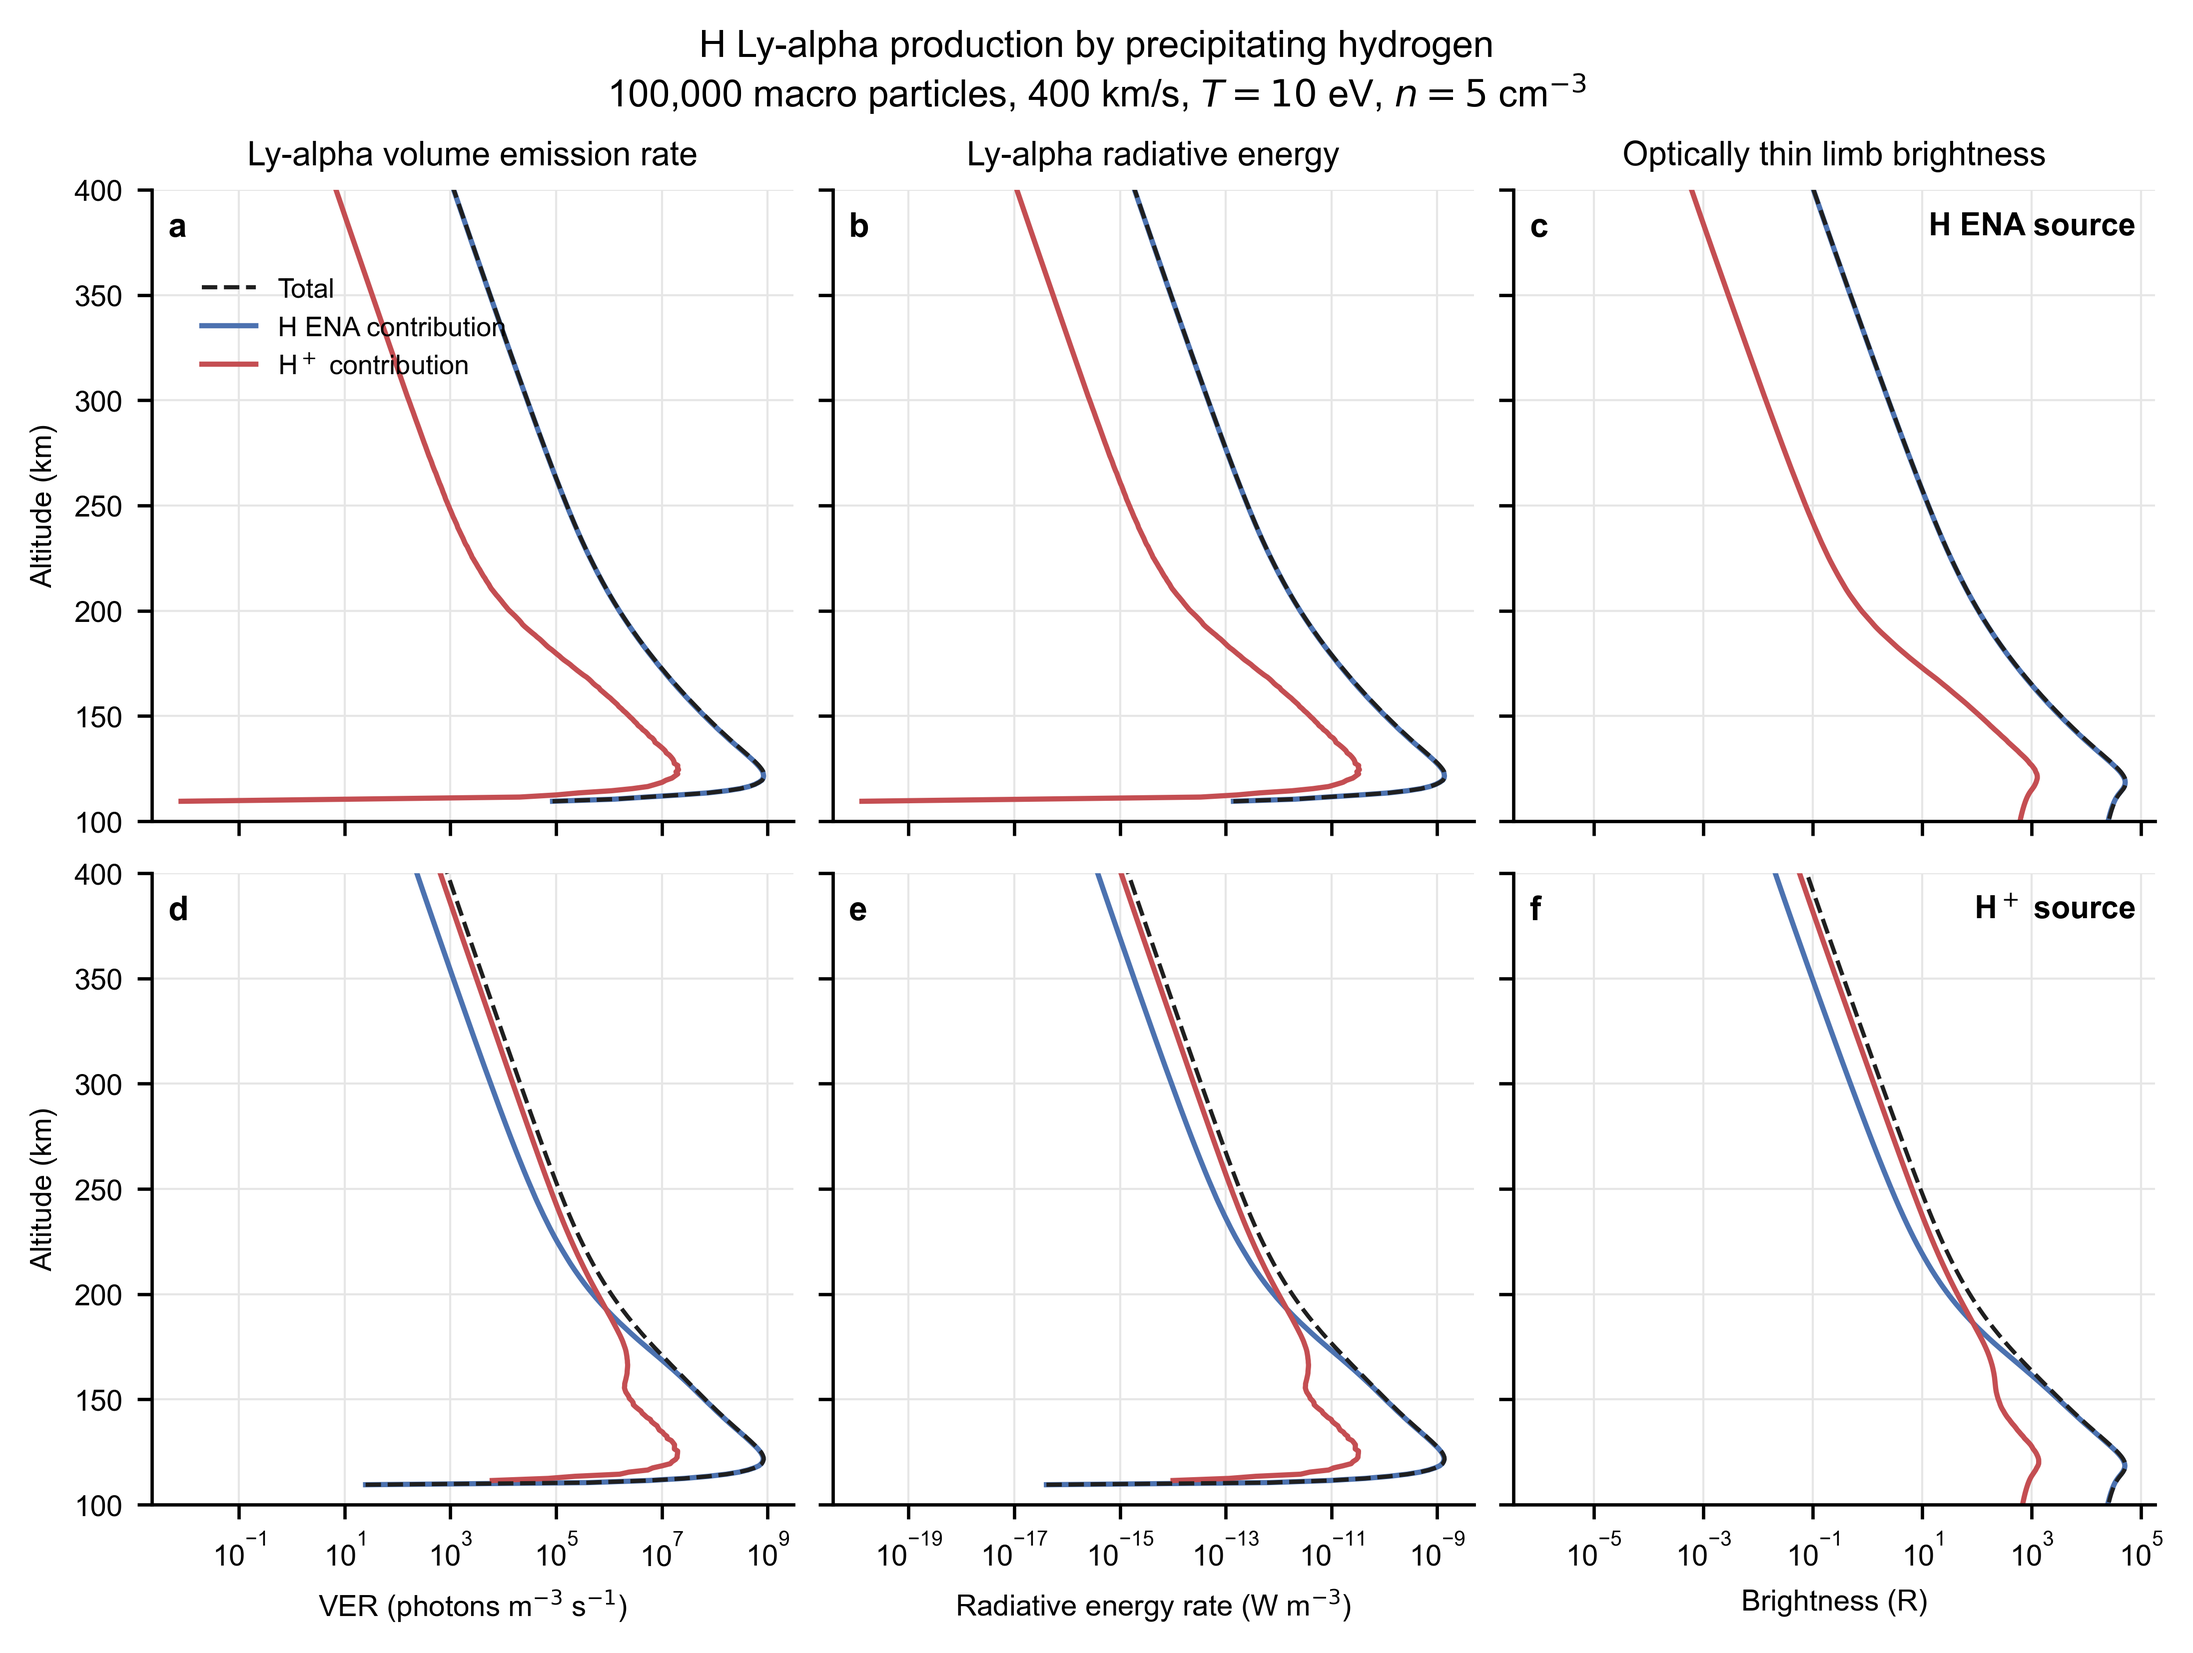
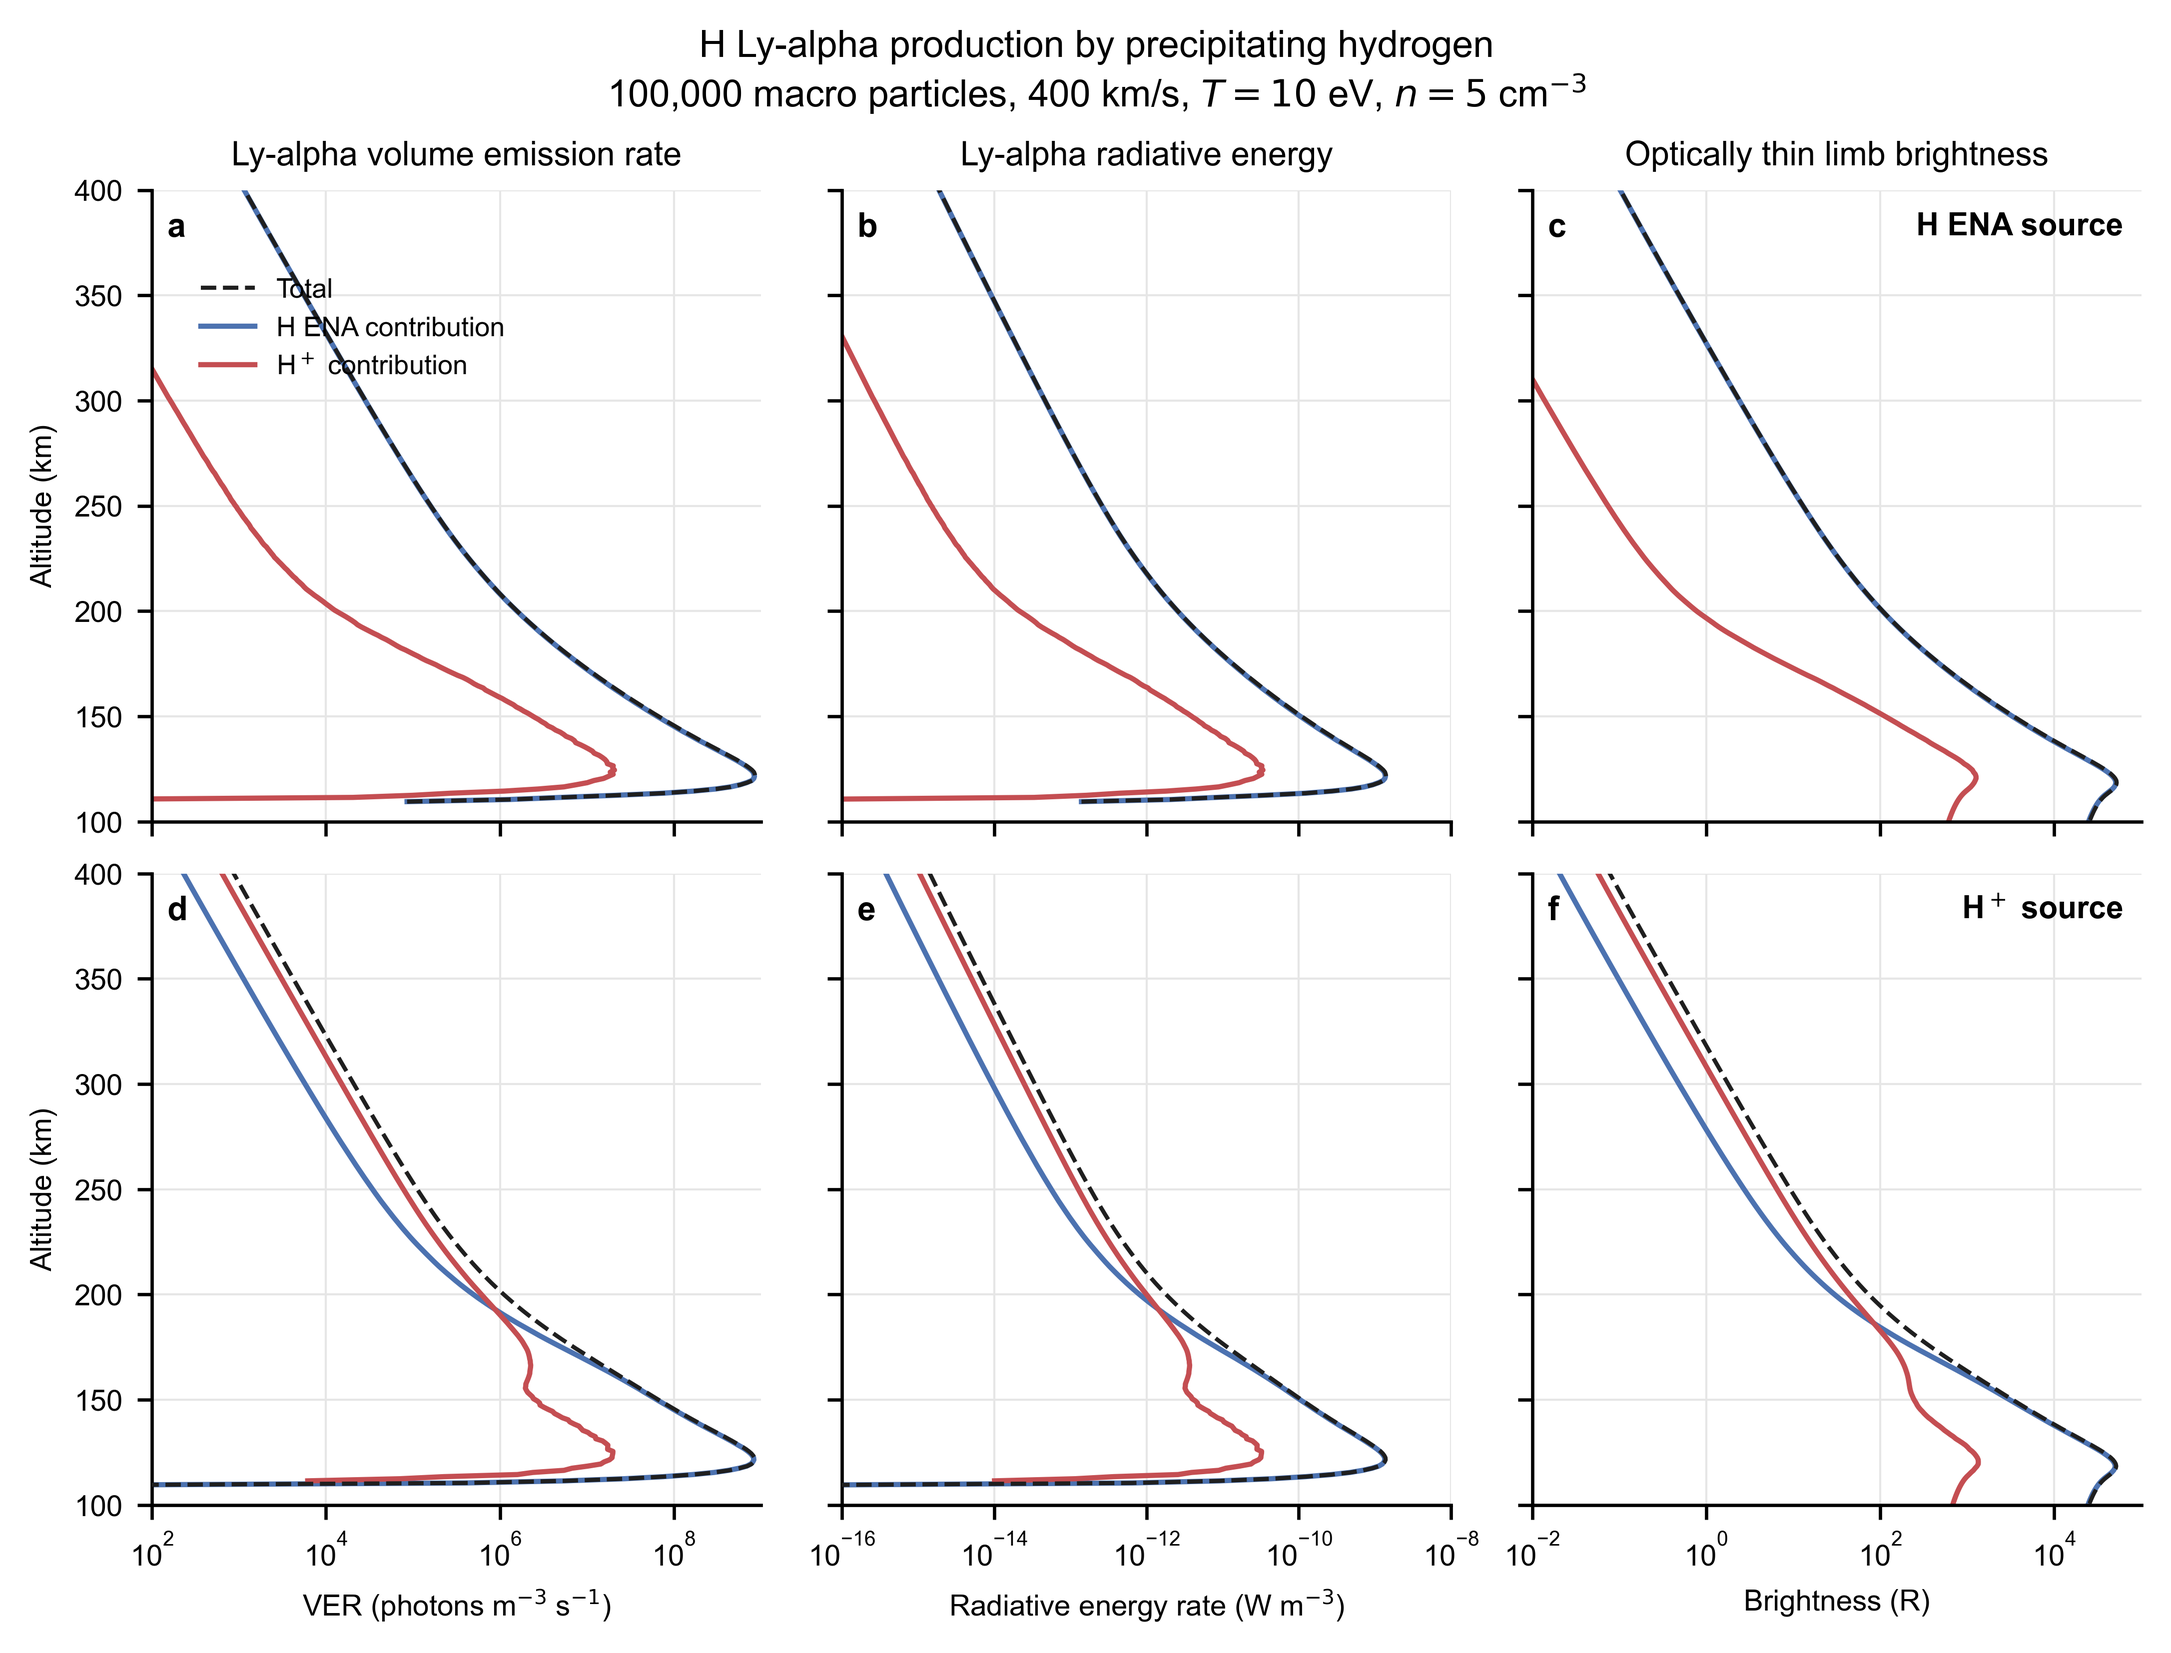
Add separate Ly-alpha source profile figures

diff --git a/examples/plot_lya_profiles.py b/examples/plot_lya_profiles.py
@@ -27,6 +27,70 @@ mpl.rcParams.update({
 
 SPECIES = (("H ENA contribution", "#4C72B0"),
            (r"H$^+$ contribution", "#C44E52"))
+XLIMITS = (
+    (1.0e2, 1.0e9),
+    (1.0e-16, 1.0e-8),
+    (1.0e-2, 1.0e5),
+)
+
+
+def plot_source_profile(result, source_label: str, output: Path) -> None:
+    """Save one source simulation as a three-panel altitude profile figure."""
+    altitude = result["altitude_km"]
+    profiles = (
+        result["volume_emission_rate_by_charge_photons_m3_s1"],
+        result["radiative_energy_rate_by_charge_w_m3"],
+        result["limb_brightness_by_charge_rayleigh"],
+    )
+    totals = (
+        result["total_volume_emission_rate_photons_m3_s1"],
+        result["total_radiative_energy_rate_w_m3"],
+        result["total_limb_brightness_rayleigh"],
+    )
+    titles = (
+        "Ly-alpha volume emission rate",
+        "Ly-alpha radiative energy",
+        "Optically thin limb brightness",
+    )
+    xlabels = (
+        r"VER (photons m$^{-3}$ s$^{-1}$)",
+        r"Radiative energy rate (W m$^{-3}$)",
+        "Brightness (R)",
+    )
+    fig, axes = plt.subplots(
+        1, 3, figsize=(7.2, 2.8), sharey=True, constrained_layout=True
+    )
+    for col, axis in enumerate(axes):
+        axis.plot(
+            np.ma.masked_less_equal(totals[col], 0.0), altitude,
+            color="0.12", lw=1.0, ls="--", label="Total", zorder=3,
+        )
+        for charge, (label, color) in enumerate(SPECIES):
+            axis.plot(
+                np.ma.masked_less_equal(profiles[col][:, charge], 0.0),
+                altitude, color=color, lw=1.25, label=label, zorder=2,
+            )
+        axis.set_xscale("log")
+        axis.set_xlim(*XLIMITS[col])
+        axis.set_ylim(100, 400)
+        axis.set_xlabel(xlabels[col])
+        axis.set_title(titles[col], fontsize=8)
+        axis.grid(True, which="major", color="0.90", lw=0.5)
+        axis.text(
+            0.025, 0.965, "abc"[col], transform=axis.transAxes,
+            ha="left", va="top", fontsize=8, fontweight="bold",
+        )
+    axes[0].set_ylabel("Altitude (km)")
+    axes[0].legend(loc="upper left", bbox_to_anchor=(0.04, 0.90), fontsize=6.5)
+    fig.suptitle(
+        f"H Ly-alpha profiles, {source_label}\n"
+        r"100,000 macro particles, 400 km/s, $T=10$ eV, "
+        r"$n=5$ cm$^{-3}$",
+        fontsize=9,
+    )
+    output.parent.mkdir(parents=True, exist_ok=True)
+    fig.savefig(output, dpi=600, bbox_inches="tight")
+    plt.close(fig)
 
 
 def main() -> None:
@@ -87,6 +151,7 @@ def main() -> None:
                     altitude, color=color, lw=1.25, label=label, zorder=2,
                 )
             axis.set_xscale("log")
+            axis.set_xlim(*XLIMITS[col])
             axis.set_ylim(100, 400)
             if row == 1:
                 axis.set_xlabel(xlabels[col])
@@ -119,6 +184,14 @@ def main() -> None:
     args.output.parent.mkdir(parents=True, exist_ok=True)
     fig.savefig(args.output, dpi=600, bbox_inches="tight")
     plt.close(fig)
+    plot_source_profile(
+        results[0], "H ENA source",
+        args.output.with_name("h_ena_lya_profiles_3panel.png"),
+    )
+    plot_source_profile(
+        results[1], r"H$^+$ source",
+        args.output.with_name("hplus_lya_profiles_3panel.png"),
+    )
     print(f"output={args.output.resolve()}")
     for label, result in zip(row_labels, results):
         peak = int(np.nanargmax(

diff --git a/examples/README.md b/examples/README.md
@@ -495,6 +495,13 @@ Rows are H ENA source and H+ source. Columns are VER, radiative energy rate,
 and optically thin limb brightness from 100 to 400 km. The PNG is stored at
 `examples/figures/h_ena_hplus_lya_profiles_6panel.png`.
 
+The same command also writes separate source-profile figures to
+`examples/figures/h_ena_lya_profiles_3panel.png` and
+`examples/figures/hplus_lya_profiles_3panel.png`. All three figures use the
+same fixed logarithmic horizontal ranges for direct comparison: VER from
+`1e2` to `1e9 photons m^-3 s^-1`, radiative energy rate from `1e-16` to
+`1e-8 W m^-3`, and limb brightness from `1e-2` to `1e5 R`.
+
 To inspect the H+ energy distribution at 550 km separately:
 
 ```powershell
